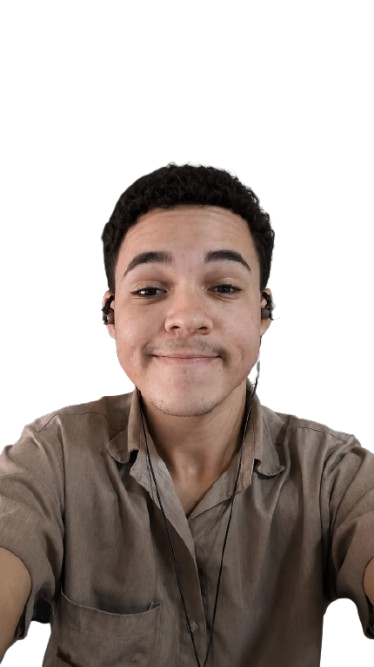
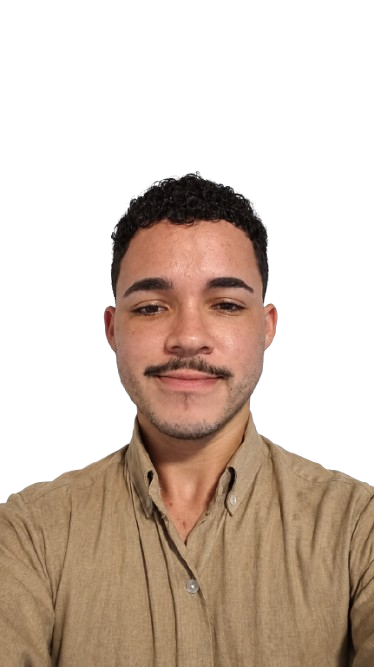
Atualiza foto e posição do perfil

diff --git a/index.html b/index.html
@@ -146,7 +146,7 @@
               <image
                 class="home__blob-img"
                 x="50"
-                y="-90"
+                y="-130"
                 href="assets/img/perfil.png"
               />
             </g>
